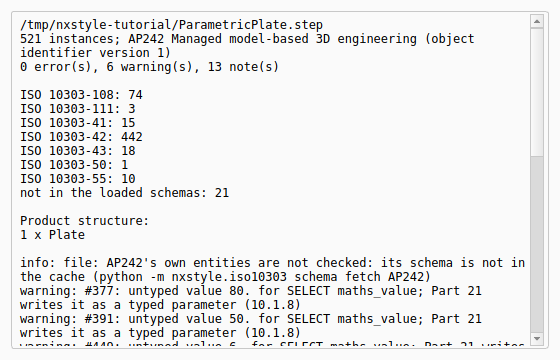
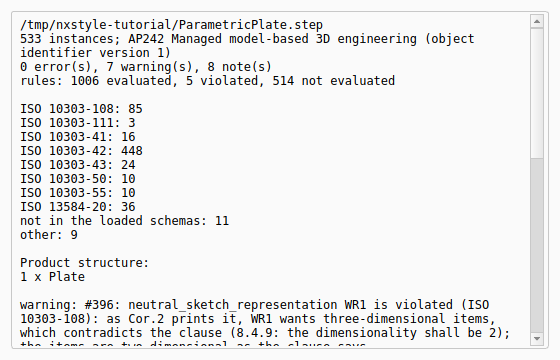
docs(tutorial): AL and AM replayed with rule evaluation; AM shows the protocol-name error in FreeCAD's export
Check STEP reports the rule count and lists errors first.

diff --git a/NXStyle/nxstyle/tutorial_exchange.py b/NXStyle/nxstyle/tutorial_exchange.py
@@ -305,12 +305,17 @@ class ExchangeTutorials:
         line = next((ln for ln in text.splitlines() if "error(s)" in ln), "")
         bom = text.split("Product structure:")[-1] if "Product structure:" in text else ""
         own = "long form in the schema cache" in text
-        ok = typed and ticked and line.startswith("0 error(s)") and "AP242" in text and own \
+        rules = next((ln.strip() for ln in text.splitlines() if "rules:" in ln), "")
+        # the one error is FreeCAD's (OpenCASCADE's): APPLICATION_PROTOCOL_DEFINITION names the AP without the
+        # "_mim_lf" every AP242 long form requires (rule ap242_application_protocol_definition_required)
+        apd = "ap242_application_protocol_definition_required" in text
+        ok = typed and ticked and line.startswith("1 error(s)") and apd and "AP242" in text and own \
             and "4 x Bolt" in bom and "2 x Bracket" in bom
-        self.step("Check STEP with 'Download the AP's schema': the application protocol named, every entity checked "
-                  "against AP242's own long form, the product structure listed",
+        self.step("Check STEP with 'Download the AP's schema': the application protocol named, every entity and every "
+                  "rule checked against AP242's own long form, the product structure listed",
                   f"ribbon '{where} > Check STEP', file name typed, the box ticked, MB2 = OK", DIFFERS if ok else FAIL,
-                  f"{line}; checked against AP242's long form: {own}; parts list: "
+                  f"{line} (the protocol name FreeCAD writes: {apd}); {rules}; checked against AP242's long form: "
+                  f"{own}; parts list: "
                   + "; ".join(ln.strip() for ln in bom.splitlines() if " x " in ln and ln.startswith("  "))
                   + ". NX has no STEP checker; its BOM comes from the assembly navigator")
         self.p_shot_info("AM_check.png")

diff --git a/NXStyle/nxstyle/parametric_ui.py b/NXStyle/nxstyle/parametric_ui.py
@@ -149,8 +149,9 @@ class CheckPanel(_FilePanel):
         issues = iso10303.check(f)
         s = express.summary(issues)
         aps = [f"{i['ap']} {i['title']} ({i['edition']})" for i in iso10303.identify(f) if i["ap"]]
+        rules = next((i.message for i in issues if i.level == "info" and i.message.startswith("rules:")), "")
         lines = [path, f"{len(f)} instances; " + ("; ".join(aps) or f"schema {', '.join(f.schemas)}"),
-                 f"{s['error']} error(s), {s['warning']} warning(s), {s['info']} note(s)", ""]
+                 f"{s['error']} error(s), {s['warning']} warning(s), {s['info']} note(s)", rules, ""]
         lines += [f"schema {n} downloaded: {k} entities" for n, k, _ in fetched]
         for std, ents in sorted(iso10303.inventory(f).items()):
             lines.append(f"{std}: {sum(ents.values())}")
@@ -158,7 +159,8 @@ class CheckPanel(_FilePanel):
         if b["roots"]:
             lines += ["", "Product structure:", iso10303.bom_text(b)]
         lines.append("")
-        lines += [repr(i) for i in issues[:300]]
+        order = {"error": 0, "warning": 1, "info": 2}                 # errors first, then warnings, then notes
+        lines += [repr(i) for i in sorted(issues, key=lambda i: order[i.level])[:300]]
         return "\n".join(lines)
 
 
